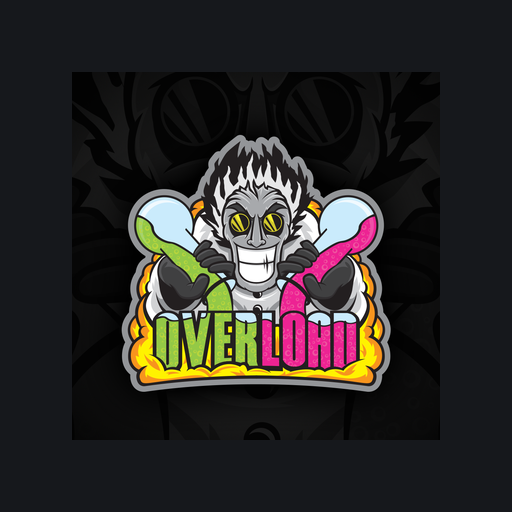
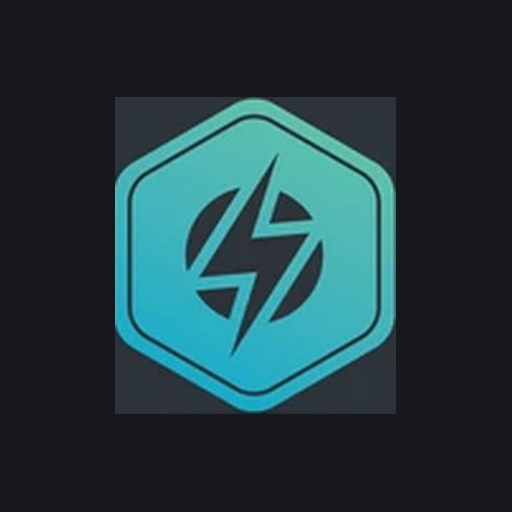
Add files via upload

diff --git a/index.html b/index.html
@@ -153,11 +153,14 @@ body{
 }
 .calendar-head{display:flex; justify-content:space-between; align-items:baseline; margin-bottom:12px;}
 .calendar-month{font-family:var(--font-display); font-weight:800; font-size:16px; letter-spacing:.5px; text-transform:uppercase;}
-.calendar-sub{font-size:11px; color:var(--text-faint);}
+.calendar-sub-group{text-align:right;}
+.calendar-streak{font-size:12px; font-weight:800; color:var(--accent-hi);}
+.calendar-sub{font-size:11px; color:var(--text-faint); margin-top:1px;}
 .cal-weekdays{display:grid; grid-template-columns:repeat(7,1fr); gap:6px; margin-bottom:6px;}
 .cal-weekdays div{text-align:center; font-size:10px; color:var(--text-faint); letter-spacing:.5px; text-transform:uppercase;}
 .cal-grid{display:grid; grid-template-columns:repeat(7,1fr); gap:6px;}
 .cal-day{
+  position:relative;
   aspect-ratio:1; border-radius:9px; display:flex; align-items:center; justify-content:center;
   font-family:var(--font-mono); font-size:12px; color:var(--text-dim); background:var(--bg-card-2);
   border:1px solid transparent;
@@ -165,6 +168,16 @@ body{
 .cal-day.empty{background:none;}
 .cal-day.done{background:var(--green); color:#0C2318; font-weight:700;}
 .cal-day.today{border-color:var(--accent);}
+.cal-pr-star{
+  position:absolute; top:-5px; right:-5px; width:14px; height:14px;
+  color:var(--accent-hi); filter:drop-shadow(0 1px 2px rgba(0,0,0,0.5));
+}
+.cal-pr-star svg{width:100%; height:100%;}
+.pr-star-inline{
+  display:inline-flex; width:13px; height:13px; color:var(--accent-hi);
+  margin-right:5px; vertical-align:-2px;
+}
+.pr-star-inline svg{width:100%; height:100%;}
 
 /* Upcoming plans */
 .plan-row{
@@ -344,6 +357,8 @@ body{
   margin:20px 20px 0; background:var(--bg-card); border:1px solid var(--border);
   border-radius:var(--radius-lg); padding:16px 8px 8px;
 }
+.chart-title{font-weight:800; font-size:13.5px; padding:0 12px 4px; letter-spacing:.2px;}
+.chart-subtle{font-weight:500; color:var(--text-faint); font-size:11px;}
 .chart-legend{display:flex; gap:16px; padding:0 12px 10px; font-size:11px; color:var(--text-faint);}
 .chart-legend span{display:inline-flex; align-items:center; gap:5px;}
 .chart-legend i{width:8px;height:8px;border-radius:50%; display:inline-block;}
@@ -583,12 +598,22 @@ function deleteWorkout(workoutId){
   render();
 }
 
+function oneRepMax(weight, firstSetReps){
+  if(!weight || !firstSetReps) return 0;
+  const denom = 1.0278 - 0.0278 * firstSetReps;
+  if(denom <= 0.05) return weight; // guard against absurd high-rep denominators
+  return weight / denom;
+}
+
 function getExerciseHistory(exId){
   const rows = [];
   const sorted = [...DATA.workouts].sort((a,b)=> new Date(a.date)-new Date(b.date));
   sorted.forEach(w=>{
     w.entries.filter(e=>e.exId===exId && e.status !== null).forEach(e=>{
-      rows.push({ date:w.date, weight:e.weight, reps:e.reps, volume:e.volume, status:e.status });
+      rows.push({
+        wId:w.id, date:w.date, weight:e.weight, reps:e.reps, volume:e.volume, status:e.status,
+        oneRM: oneRepMax(e.weight, e.reps[0])
+      });
     });
   });
   rows.forEach((r,i)=> r.n = i+1);
@@ -608,6 +633,51 @@ function getSuggestedWeight(exId){
   if(last.status === "green") w += ex.increment;
   else if(last.status === "red") w -= ex.increment;
   return { weight: Math.max(w,0), basedOn:last };
+}
+
+/* ---- Streak ---- */
+function getCurrentStreak(){
+  const completed = getCompletedDatesSet();
+  let streak = 0;
+  let cursor = new Date();
+  if(!completed.has(dateKeyLocal(cursor))){
+    cursor.setDate(cursor.getDate() - 1);
+  }
+  while(completed.has(dateKeyLocal(cursor))){
+    streak++;
+    cursor.setDate(cursor.getDate() - 1);
+  }
+  return streak;
+}
+
+/* ---- Personal Records ----
+   A PR is marked the first time an exercise entry's volume exceeds every
+   prior completed entry for that same exercise (chronologically). */
+function getAllPRKeys(){
+  const prSet = new Set();
+  const exIds = new Set();
+  DATA.workouts.forEach(w => w.entries.forEach(e => { if(e.status !== null) exIds.add(e.exId); }));
+  exIds.forEach(exId=>{
+    const hist = getExerciseHistory(exId);
+    let runningMax = 0;
+    hist.forEach(row=>{
+      if(row.volume > runningMax) prSet.add(`${row.wId}::${exId}`);
+      runningMax = Math.max(runningMax, row.volume);
+    });
+  });
+  return prSet;
+}
+function workoutHasPR(w, prSet){
+  return w.entries.some(e => prSet.has(`${w.id}::${e.exId}`));
+}
+function getPRDatesSet(prSet){
+  const dates = new Set();
+  DATA.workouts.forEach(w=>{
+    w.entries.forEach(e=>{
+      if(prSet.has(`${w.id}::${e.exId}`)) dates.add(dateKeyLocal(new Date(w.date)));
+    });
+  });
+  return dates;
 }
 
 function fmtDate(iso){
@@ -640,6 +710,7 @@ function render(){
   if(route.name === "home") html = viewHome();
   else if(route.name === "log") html = viewLog();
   else if(route.name === "progress") html = viewProgressList();
+  else if(route.name === "session") html = viewSessionDetail(route.workoutId);
   else if(route.name === "detail") html = viewExerciseDetail(route.exId);
   else if(route.name === "manage") html = viewManage();
 
@@ -657,7 +728,8 @@ const ICONS = {
   plate:`<svg class="plate-icon" viewBox="0 0 32 32" fill="none"><rect x="4" y="12" width="24" height="8" rx="2.5" fill="var(--accent)"/><rect x="1" y="8" width="5" height="16" rx="2" fill="var(--accent-hi)"/><rect x="26" y="8" width="5" height="16" rx="2" fill="var(--accent-hi)"/></svg>`,
   trash:`<svg viewBox="0 0 24 24" fill="none"><path d="M5 7h14M10 7V5a1 1 0 0 1 1-1h2a1 1 0 0 1 1 1v2M7 7l1 13a1 1 0 0 0 1 1h6a1 1 0 0 0 1-1l1-13" stroke="currentColor" stroke-width="1.7" stroke-linecap="round" stroke-linejoin="round"/></svg>`,
   download:`<svg viewBox="0 0 24 24" fill="none"><path d="M12 4v11m0 0l-4-4m4 4l4-4M5 19h14" stroke="currentColor" stroke-width="1.8" stroke-linecap="round" stroke-linejoin="round"/></svg>`,
-  upload:`<svg viewBox="0 0 24 24" fill="none"><path d="M12 15V4m0 0l-4 4m4-4l4 4M5 19h14" stroke="currentColor" stroke-width="1.8" stroke-linecap="round" stroke-linejoin="round"/></svg>`
+  upload:`<svg viewBox="0 0 24 24" fill="none"><path d="M12 15V4m0 0l-4 4m4-4l4 4M5 19h14" stroke="currentColor" stroke-width="1.8" stroke-linecap="round" stroke-linejoin="round"/></svg>`,
+  star:`<svg viewBox="0 0 24 24" fill="currentColor"><path d="M12 2.5l2.9 6.2 6.6.8-4.9 4.6 1.3 6.7L12 17.6l-5.9 3.2 1.3-6.7-4.9-4.6 6.6-.8z"/></svg>`
 };
 
 /* ============ HOME ============ */
@@ -667,8 +739,10 @@ function renderCalendar(){
   const firstDay = new Date(year, month, 1).getDay();
   const daysInMonth = new Date(year, month+1, 0).getDate();
   const completed = getCompletedDatesSet();
+  const prDates = getPRDatesSet(getAllPRKeys());
   const todayKey = todayStr();
   const monthName = now.toLocaleDateString(undefined, {month:"long", year:"numeric"});
+  const streak = getCurrentStreak();
 
   let cells = "";
   for(let i=0;i<firstDay;i++) cells += `<div class="cal-day empty"></div>`;
@@ -677,14 +751,18 @@ function renderCalendar(){
     const classes = ["cal-day"];
     if(completed.has(key)) classes.push("done");
     if(key === todayKey) classes.push("today");
-    cells += `<div class="${classes.join(' ')}">${d}</div>`;
+    const star = prDates.has(key) ? `<span class="cal-pr-star">${ICONS.star}</span>` : "";
+    cells += `<div class="${classes.join(' ')}">${star}${d}</div>`;
   }
 
   return `
     <div class="calendar-card">
       <div class="calendar-head">
         <div class="calendar-month">${monthName}</div>
-        <div class="calendar-sub">${completed.size} day${completed.size===1?"":"s"} trained</div>
+        <div class="calendar-sub-group">
+          ${streak > 0 ? `<div class="calendar-streak">🔥 ${streak} day${streak===1?"":"s"}</div>` : ""}
+          <div class="calendar-sub">${completed.size} day${completed.size===1?"":"s"} trained</div>
+        </div>
       </div>
       <div class="cal-weekdays"><div>S</div><div>M</div><div>T</div><div>W</div><div>T</div><div>F</div><div>S</div></div>
       <div class="cal-grid">${cells}</div>
@@ -698,6 +776,7 @@ function viewHome(){
     .sort((a,b)=> new Date(a.date)-new Date(b.date));
   const recent = [...completedWorkouts].sort((a,b)=> new Date(b.date)-new Date(a.date)).slice(0,6);
   const today = new Date().toLocaleDateString(undefined,{weekday:"long", month:"long", day:"numeric"});
+  const prSet = getAllPRKeys();
 
   let cards = "";
   for(const type in TYPE_META){
@@ -734,14 +813,15 @@ function viewHome(){
       const totalVol = w.entries.reduce((s,e)=>s+e.volume,0);
       const worstStatus = w.entries.some(e=>e.status==="red") ? "red" : (w.entries.some(e=>e.status==="orange") ? "orange" : "green");
       const dotColor = worstStatus === "green" ? "var(--green)" : worstStatus === "orange" ? "var(--orange)" : "var(--red)";
+      const isPR = workoutHasPR(w, prSet);
       sessions += `
         <div class="session-row">
           <div class="session-dot" style="background:${dotColor}"></div>
-          <div class="session-main" onclick="nav({name:'progress'})">
-            <div class="session-type">${TYPE_META[w.type].label} · ${w.entries.length} exercise${w.entries.length>1?"s":""}</div>
+          <div class="session-main" onclick="nav({name:'session', workoutId:'${w.id}'})">
+            <div class="session-type">${isPR ? `<span class="pr-star-inline">${ICONS.star}</span>` : ""}${TYPE_META[w.type].label} · ${w.entries.length} exercise${w.entries.length>1?"s":""}</div>
             <div class="session-date">${fmtDate(w.date)}</div>
           </div>
-          <div class="session-vol" onclick="nav({name:'progress'})">${totalVol.toLocaleString()}<span>lbs vol.</span></div>
+          <div class="session-vol" onclick="nav({name:'session', workoutId:'${w.id}'})">${totalVol.toLocaleString()}<span>lbs vol.</span></div>
           <button class="session-del" onclick="event.stopPropagation(); deleteWorkout('${w.id}')" aria-label="Delete session">${ICONS.trash}</button>
         </div>`;
     });
@@ -1046,7 +1126,7 @@ function viewProgressList(){
       const h = getExerciseHistory(ex.id);
       const last = h.length ? h[h.length-1] : null;
       blocks += `
-        <div class="ex-row" onclick="nav({name:'detail', exId:'${ex.id}'})">
+        <div class="ex-row" onclick="detailBackTarget={name:'progress'}; nav({name:'detail', exId:'${ex.id}'})">
           <div>
             <div class="en">${ex.name}</div>
             <div class="es">${last ? `${h.length} session${h.length>1?"s":""} · last ${last.weight} lbs` : "No sessions yet"}</div>
@@ -1068,6 +1148,46 @@ function viewProgressList(){
   `;
 }
 
+/* ============ SESSION DETAIL ============ */
+let detailBackTarget = {name:"progress"};
+function viewSessionDetail(workoutId){
+  const w = DATA.workouts.find(w=>w.id===workoutId);
+  if(!w) return `<div class="empty-state" style="margin:20px;">Session not found.</div>`;
+  const prSet = getAllPRKeys();
+  const totalVol = w.entries.reduce((s,e)=>s+e.volume,0);
+
+  let rows = "";
+  w.entries.forEach(e=>{
+    const isPR = prSet.has(`${w.id}::${e.exId}`);
+    const color = e.status === "green" ? "var(--green)" : e.status === "orange" ? "var(--orange)" : "var(--red)";
+    rows += `
+      <div class="ex-row" onclick="detailBackTarget={name:'session', workoutId:'${w.id}'}; nav({name:'detail', exId:'${e.exId}'})">
+        <div>
+          <div class="en">${isPR ? `<span class="pr-star-inline">${ICONS.star}</span>` : ""}${e.name}</div>
+          <div class="es">${e.weight} lbs · ${e.reps.join("/")} reps · ${e.volume.toLocaleString()} lbs vol.</div>
+        </div>
+        <div style="display:flex; align-items:center; gap:10px;">
+          <div class="session-dot" style="background:${color}"></div>
+          <span class="chev">›</span>
+        </div>
+      </div>`;
+  });
+
+  return `
+    <div class="bar-top">
+      <div class="back-btn" onclick="nav({name:'home'})">${ICONS.back}</div>
+      <div class="bar-title">${TYPE_META[w.type].label}</div>
+    </div>
+    <div class="stat-strip">
+      <div class="stat-chip"><div class="sv">${fmtDate(w.date)}</div><div class="sl">Date</div></div>
+      <div class="stat-chip"><div class="sv">${w.entries.length}</div><div class="sl">Exercises</div></div>
+      <div class="stat-chip"><div class="sv">${totalVol.toLocaleString()}</div><div class="sl">Total Volume</div></div>
+    </div>
+    <div class="section-label" style="padding:0 20px; margin:22px 0 8px;">Tap an exercise for its full progression</div>
+    ${rows}
+  `;
+}
+
 /* ============ EXERCISE DETAIL ============ */
 let selectedPoint = null;
 function viewExerciseDetail(exId){
@@ -1077,6 +1197,7 @@ function viewExerciseDetail(exId){
   const suggestion = getSuggestedWeight(exId);
   const last = history.length ? history[history.length-1] : null;
   const best = history.length ? Math.max(...history.map(h=>h.volume)) : 0;
+  const prSet = getAllPRKeys();
 
   const stats = `
     <div class="stat-strip">
@@ -1087,16 +1208,22 @@ function viewExerciseDetail(exId){
   `;
 
   const chart = history.length
-    ? renderChart(history)
+    ? renderChart(history, "volume")
     : `<div class="empty-state" style="margin:8px;">Log this exercise to start seeing your progression chart here.</div>`;
+
+  const oneRMChart = history.length
+    ? renderChart(history, "oneRM")
+    : `<div class="empty-state" style="margin:8px;">Log this exercise to start seeing your 1RM chart here.</div>`;
 
   let pointDetail = "";
   if(selectedPoint !== null && history[selectedPoint]){
     const p = history[selectedPoint];
+    const isPR = prSet.has(`${p.wId}::${exId}`);
     pointDetail = `
       <div class="point-detail">
-        <b>${fmtDateFull(p.date)}</b><br>
+        <b>${fmtDateFull(p.date)}</b>${isPR ? ` <span class="pr-star-inline">${ICONS.star}</span><b>Personal Record</b>` : ""}<br>
         ${p.weight} lbs × [${p.reps.join(", ")}] reps — <b>${p.volume.toLocaleString()} lbs</b> total volume<br>
+        Estimated 1RM: <b>${Math.round(p.oneRM).toLocaleString()} lbs</b><br>
         ${STATUS_LABEL[p.status].text}
       </div>`;
   }
@@ -1104,28 +1231,34 @@ function viewExerciseDetail(exId){
   let rows = "";
   [...history].reverse().forEach((h)=>{
     const color = h.status === "green" ? "var(--green)" : h.status === "orange" ? "var(--orange)" : "var(--red)";
+    const isPR = prSet.has(`${h.wId}::${exId}`);
     rows += `
       <div class="hrow">
         <div class="hdot" style="background:${color}"></div>
         <div class="hdate">${fmtDate(h.date)}</div>
-        <div class="hreps">${h.weight} lbs · ${h.reps.join("/")}</div>
+        <div class="hreps">${isPR ? `<span class="pr-star-inline">${ICONS.star}</span>` : ""}${h.weight} lbs · ${h.reps.join("/")}</div>
         <div class="hvol">${h.volume.toLocaleString()}</div>
       </div>`;
   });
 
   return `
     <div class="bar-top">
-      <div class="back-btn" onclick="selectedPoint=null; nav({name:'progress'})">${ICONS.back}</div>
+      <div class="back-btn" onclick="selectedPoint=null; nav(detailBackTarget)">${ICONS.back}</div>
       <div class="bar-title">${ex.name}</div>
     </div>
     ${stats}
     <div class="chart-card">
+      <div class="chart-title">Volume per Session</div>
       <div class="chart-legend">
         <span><i style="background:var(--green)"></i>Increase</span>
         <span><i style="background:var(--orange)"></i>Maintain</span>
         <span><i style="background:var(--red)"></i>Decrease</span>
       </div>
       ${chart}
+    </div>
+    <div class="chart-card" style="margin-top:14px;">
+      <div class="chart-title">Estimated 1-Rep Max <span class="chart-subtle">(Brzycki · first set)</span></div>
+      ${oneRMChart}
     </div>
     ${pointDetail ? `<div style="margin-top:12px;">${pointDetail}</div>` : ""}
     <div class="history-table">
@@ -1135,21 +1268,21 @@ function viewExerciseDetail(exId){
   `;
 }
 
-function renderChart(history){
+function renderChart(history, valueKey){
   const W = 320, H = 190;
   const padL = 34, padR = 14, padT = 14, padB = 26;
   const chartW = W - padL - padR, chartH = H - padT - padB;
   const n = history.length;
-  const maxVol = Math.max(...history.map(h=>h.volume)) * 1.15 || 1;
+  const maxVal = Math.max(...history.map(h=>h[valueKey])) * 1.15 || 1;
 
   const xFor = i => n <= 1 ? padL + chartW/2 : padL + (i/(n-1)) * chartW;
-  const yFor = v => padT + chartH - (v/maxVol) * chartH;
+  const yFor = v => padT + chartH - (v/maxVal) * chartH;
 
   const colorFor = s => s==="green" ? "var(--green)" : s==="orange" ? "var(--orange)" : "var(--red)";
 
   let path = "";
   history.forEach((h,i)=>{
-    const x = xFor(i), y = yFor(h.volume);
+    const x = xFor(i), y = yFor(h[valueKey]);
     path += (i===0 ? `M${x},${y}` : ` L${x},${y}`);
   });
 
@@ -1157,14 +1290,14 @@ function renderChart(history){
   let grid = "";
   for(let g=0; g<=2; g++){
     const y = padT + (chartH/2)*g;
-    const val = Math.round(maxVol - (maxVol/2)*g);
+    const val = Math.round(maxVal - (maxVal/2)*g);
     grid += `<line x1="${padL}" y1="${y}" x2="${W-padR}" y2="${y}" stroke="var(--border-soft)" stroke-width="1"/>`;
     grid += `<text x="${padL-6}" y="${y+3}" text-anchor="end" font-size="8.5" fill="var(--text-faint)" font-family="var(--font-mono)">${val>=1000?(val/1000).toFixed(1)+'k':val}</text>`;
   }
 
   let dots = "";
   history.forEach((h,i)=>{
-    const x = xFor(i), y = yFor(h.volume);
+    const x = xFor(i), y = yFor(h[valueKey]);
     const c = colorFor(h.status);
     dots += `
       <circle cx="${x}" cy="${y}" r="9" fill="${c}" fill-opacity="0.18" />
@@ -1293,7 +1426,7 @@ function importDataFile(input){
 
 /* ============ NAV / TOAST ============ */
 function viewBottomNav(){
-  const active = route.name === "log" ? "home" : (route.name === "detail" ? "progress" : route.name);
+  const active = (route.name === "log" || route.name === "session") ? "home" : (route.name === "detail" ? "progress" : route.name);
   return `
     <div class="bottom-nav">
       <div class="bottom-nav-inner">